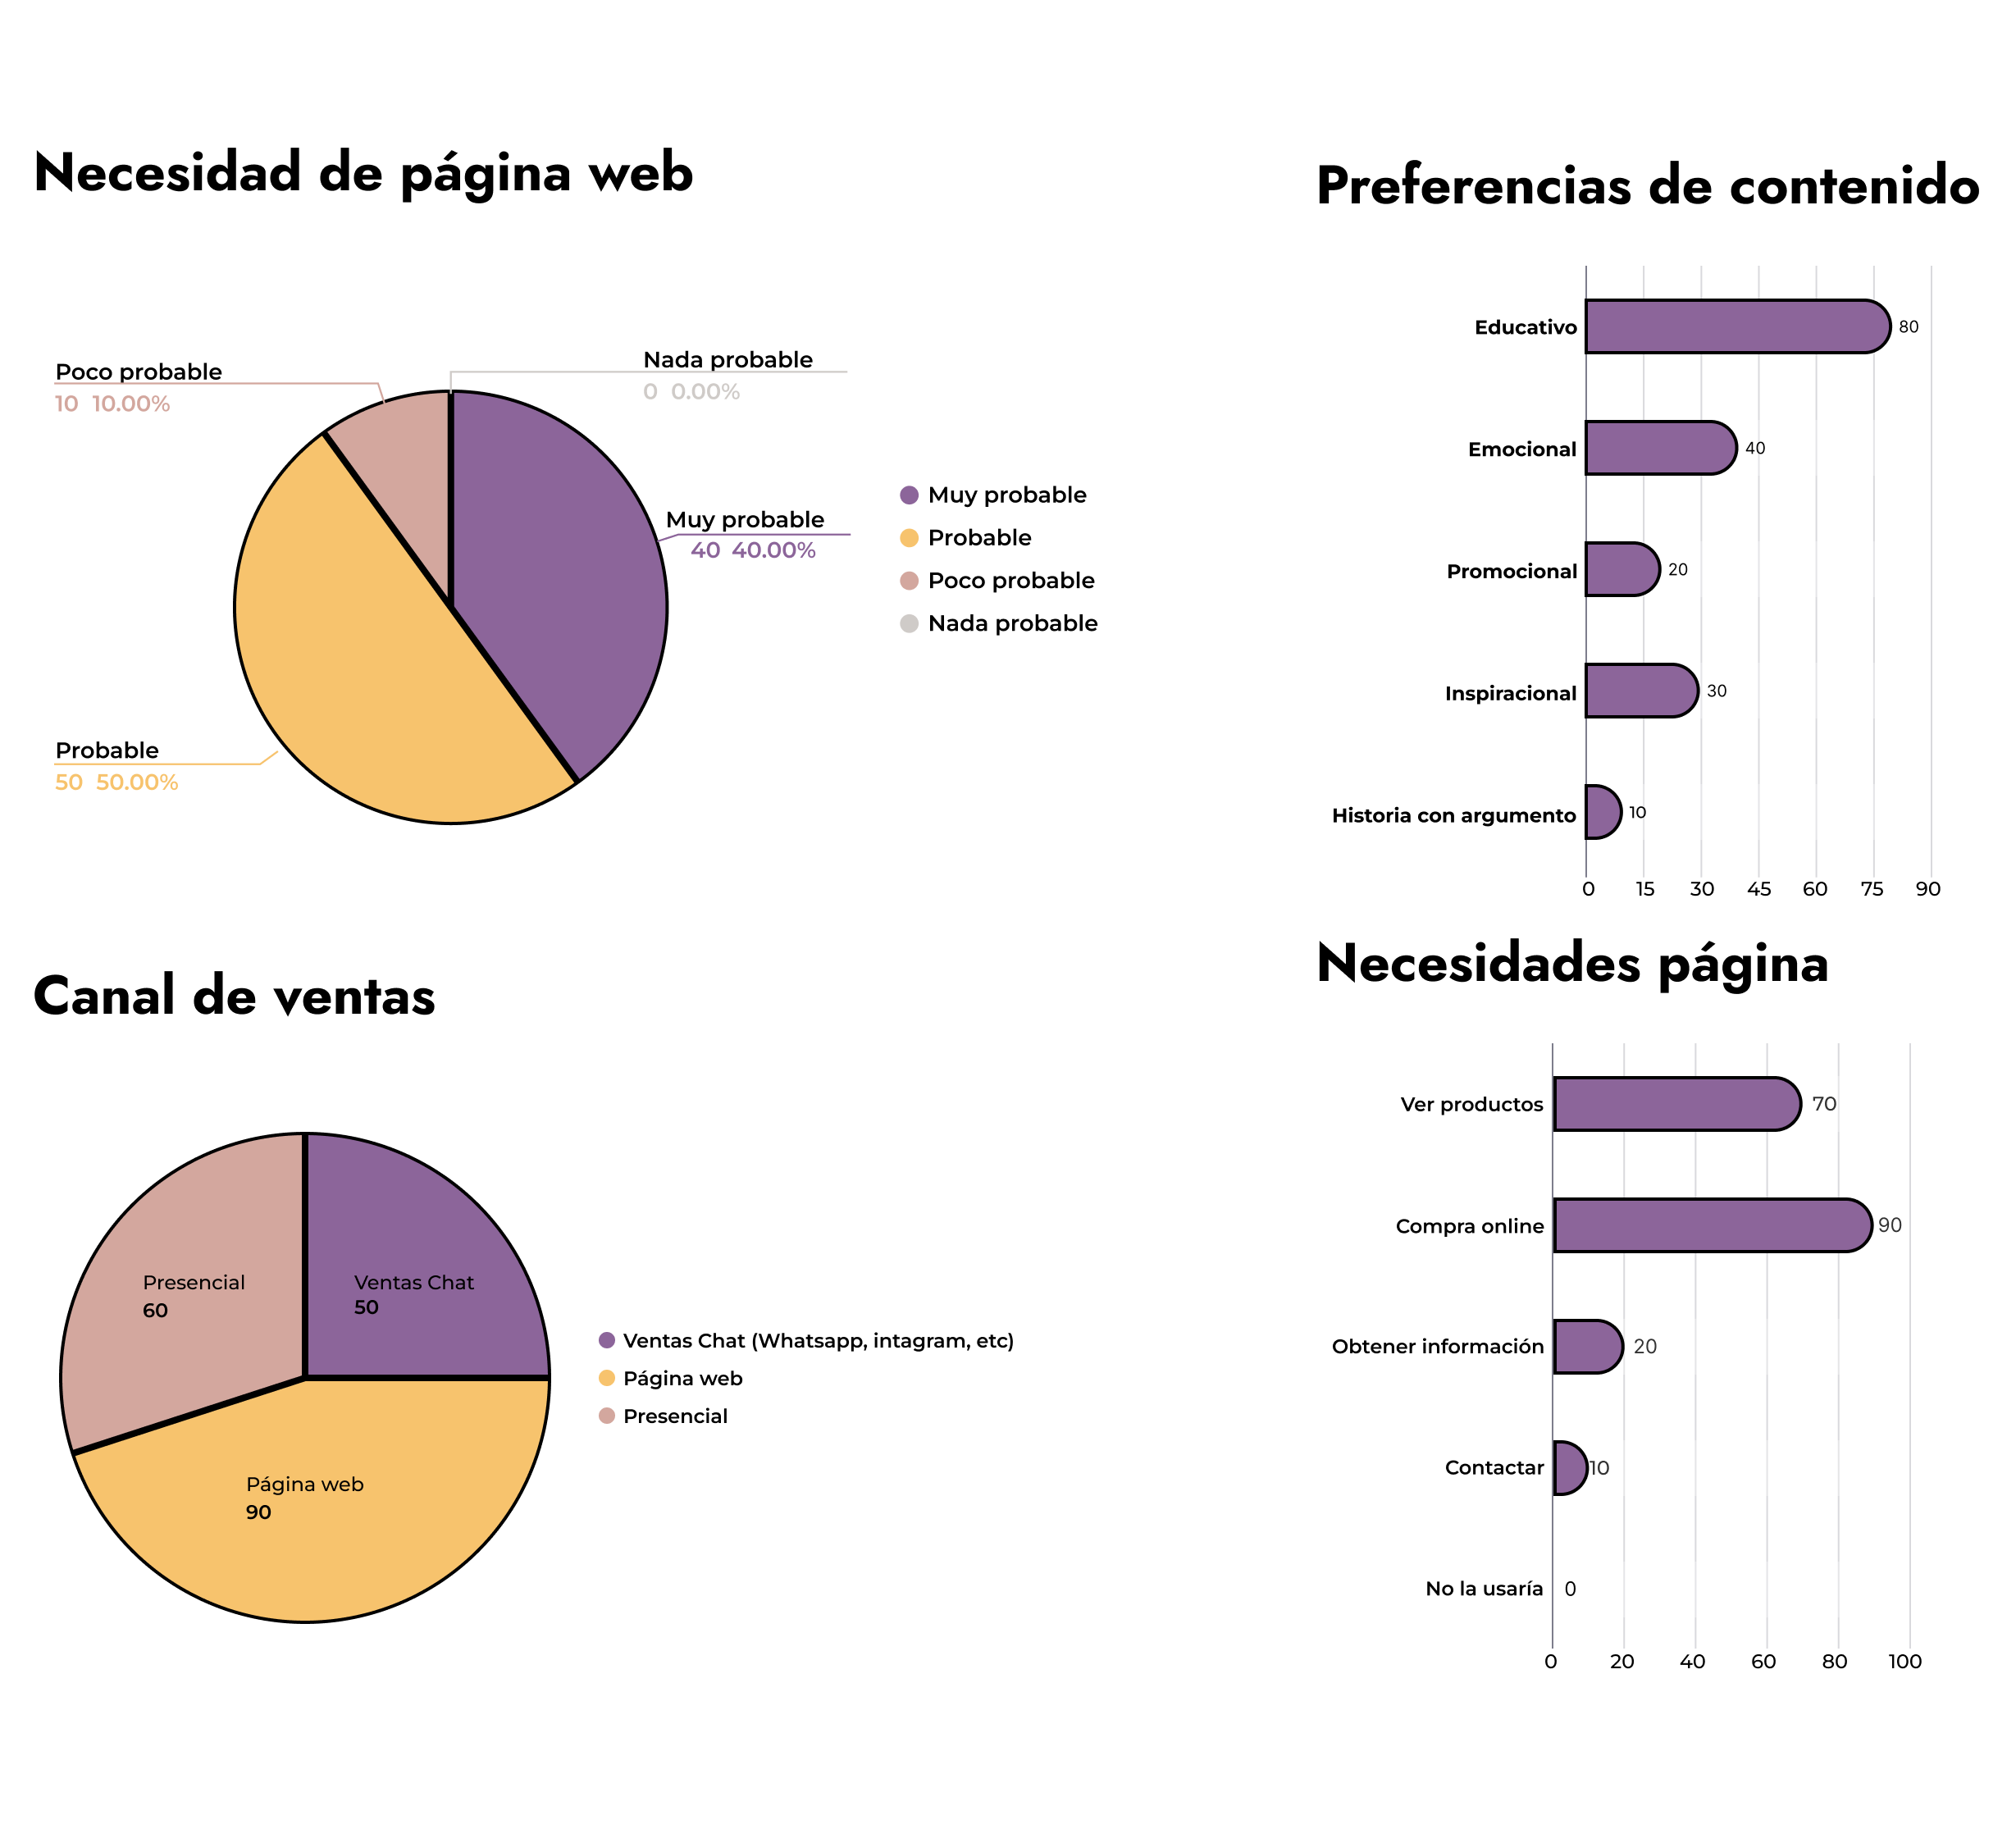
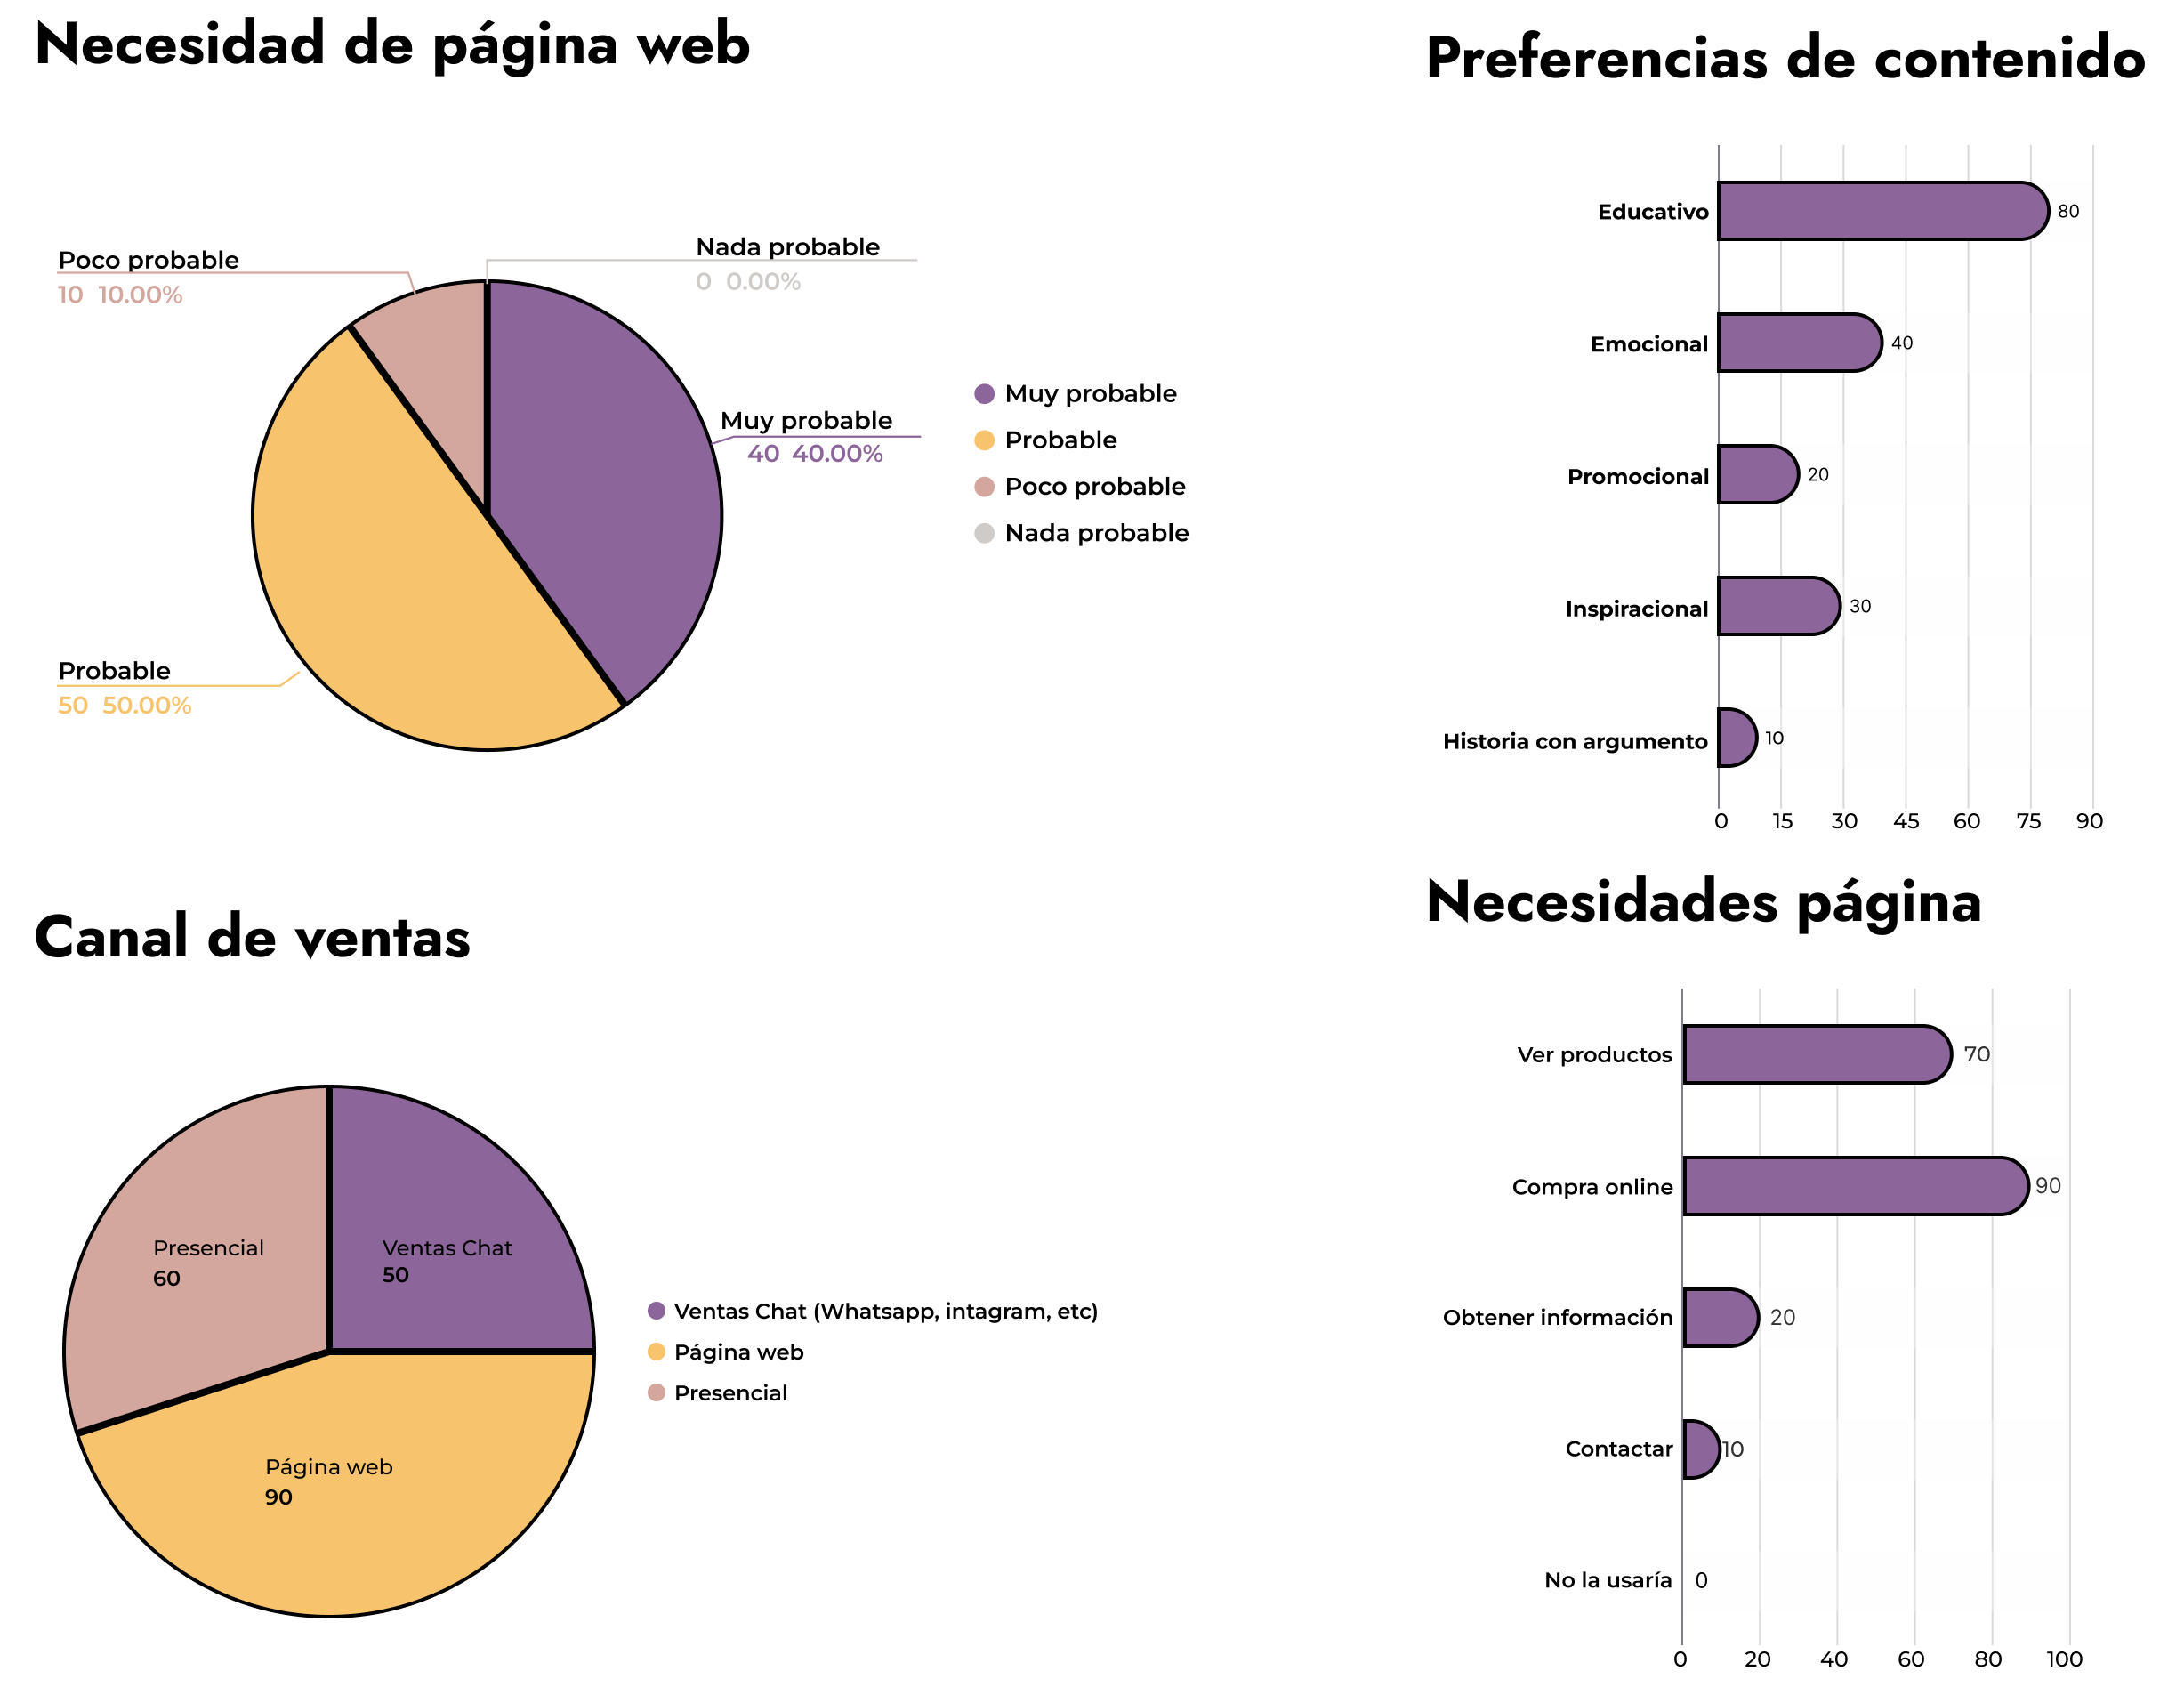
Se termina convierte en dinamico el texto de definición del problema y se inserta las imagenes para proyecto de Amarilla

diff --git a/src/data/portfolio.ts b/src/data/portfolio.ts
@@ -54,22 +54,33 @@ export const proyectos: Proyect[] = [
     problemDefinition: {
       description: "Los visitantes no encuentran un camino de compra claro ni información completa de materiales, lo que dificulta la decisión y reduce la conversión.",
       userPersona: "Compradora creativa que busca piezas artesanales únicas para su hogar.",
+      businessObjective: "Diseñar un e-commerce que refleje la identidad artesanal de Amarilla Garden y acompañe al usuario en una experiencia de compra clara y confiable.",
+      painPoints: [
+        "Los visitantes no encuentran un camino de compra claro.",
+        "Falta información detallada de materiales y dimensiones en los productos.",
+        "La experiencia actual no transmite la calidad artesanal de la marca.",
+        "El proceso de navegación no ayuda a diferenciar categorías y colecciones.",
+        "El checkout no comunica seguridad ni las opciones de envío disponibles."
+      ],
+      insight: "El e-commerce debe conectar emocionalmente con el usuario mostrando la historia artesanal y la transparencia del producto para generar confianza en la compra online.",
+      summaryTitle: "Oportunidad estratégica",
+      summary: "Mejorar la claridad del catálogo y la comunicación de materiales permitirá que los visitantes comprendan rápidamente el valor del producto y se sientan seguros para completar la compra.",
     },
     ideation: {
       overview: "Generamos una estructura con categorías concretas, fichas visuales y un checkout accesible para un público menos técnico.",
-      sitemapImage: "/images/BaseImagen.jpg",
-      userFlowImage: "/images/BaseImagen.jpg",
+      sitemapImage: "/images/proyectos/amarilla/sideMapAmarilla.png",
+      // userFlowImage: "/images/BaseImagen.jpg",
       sketchImage: "/images/BaseImagen.jpg",
       wireframeImage: "/images/BaseImagen.jpg",
     },
-    testing: {
-      summary: "Evaluamos la navegación con usuarios para asegurar que encuentren productos en menos de 3 pasos y comprendan fácilmente las opciones de envío.",
-    },
-    visualDesign: {
-      kitUiImage: "/images/BaseImagen.jpg",
-      mockupImage: "/images/BaseImagen.jpg",
-      video: "/videos/videoEjemplo.mp4",
-    },
+    // testing: {
+    //   summary: "Evaluamos la navegación con usuarios para asegurar que encuentren productos en menos de 3 pasos y comprendan fácilmente las opciones de envío.",
+    // },
+    // visualDesign: {
+    //   kitUiImage: "/images/BaseImagen.jpg",
+    //   mockupImage: "/images/BaseImagen.jpg",
+    //   video: "/videos/videoEjemplo.mp4",
+    // },
     frontPage: "/images/Amarilla.webp",
     linkWebsite: "https://www.amarillagarden.com",
     linkGit: "https://github.com/user/portfolio",

diff --git a/src/models/index.ts b/src/models/index.ts
@@ -55,6 +55,11 @@ export interface ProyectProblemDefinition {
   description?: string;
   userPersona?: string;
   personaImage?: string;
+  businessObjective?: string;
+  painPoints?: string[];
+  insight?: string;
+  summaryTitle?: string;
+  summary?: string;
 }
 
 export interface ProyectIdeation {